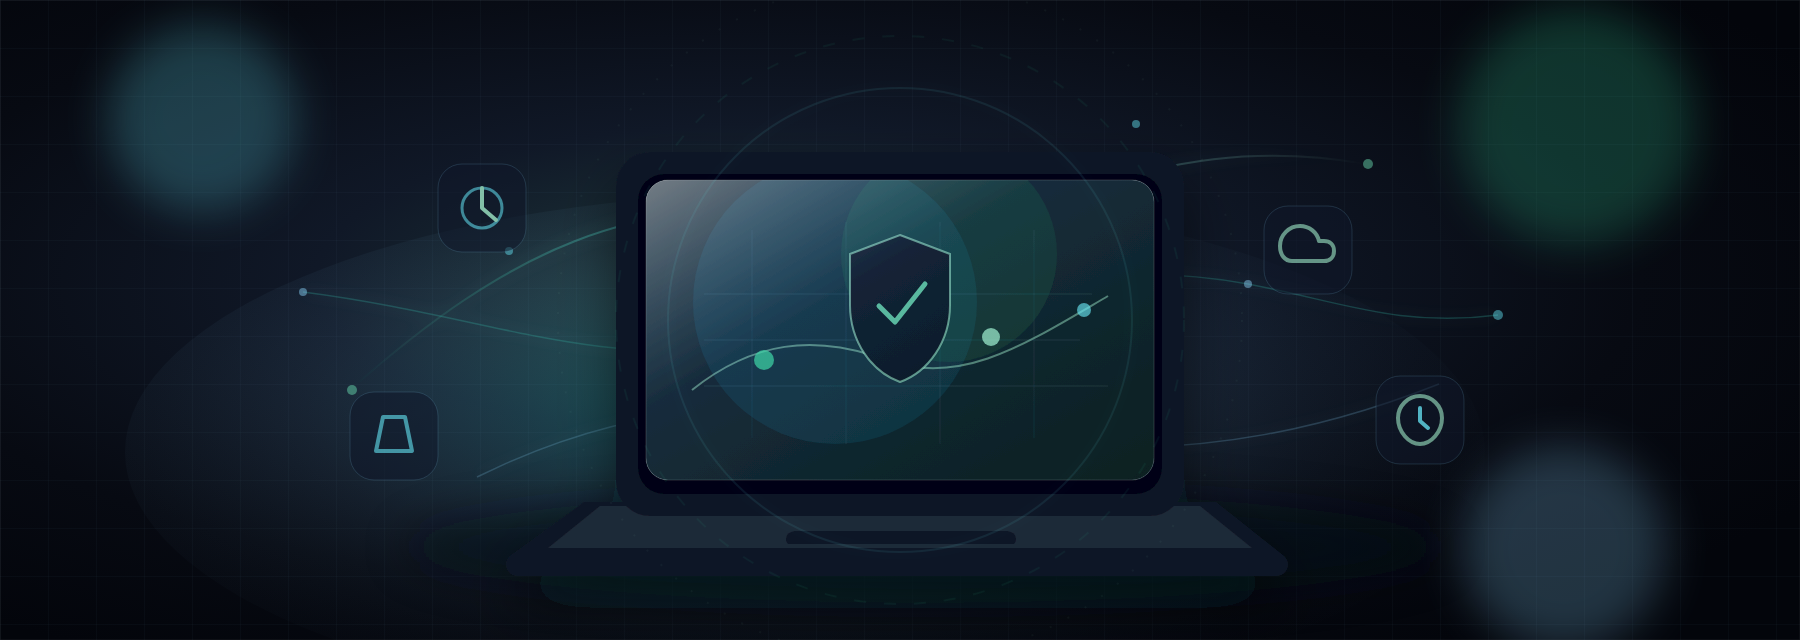
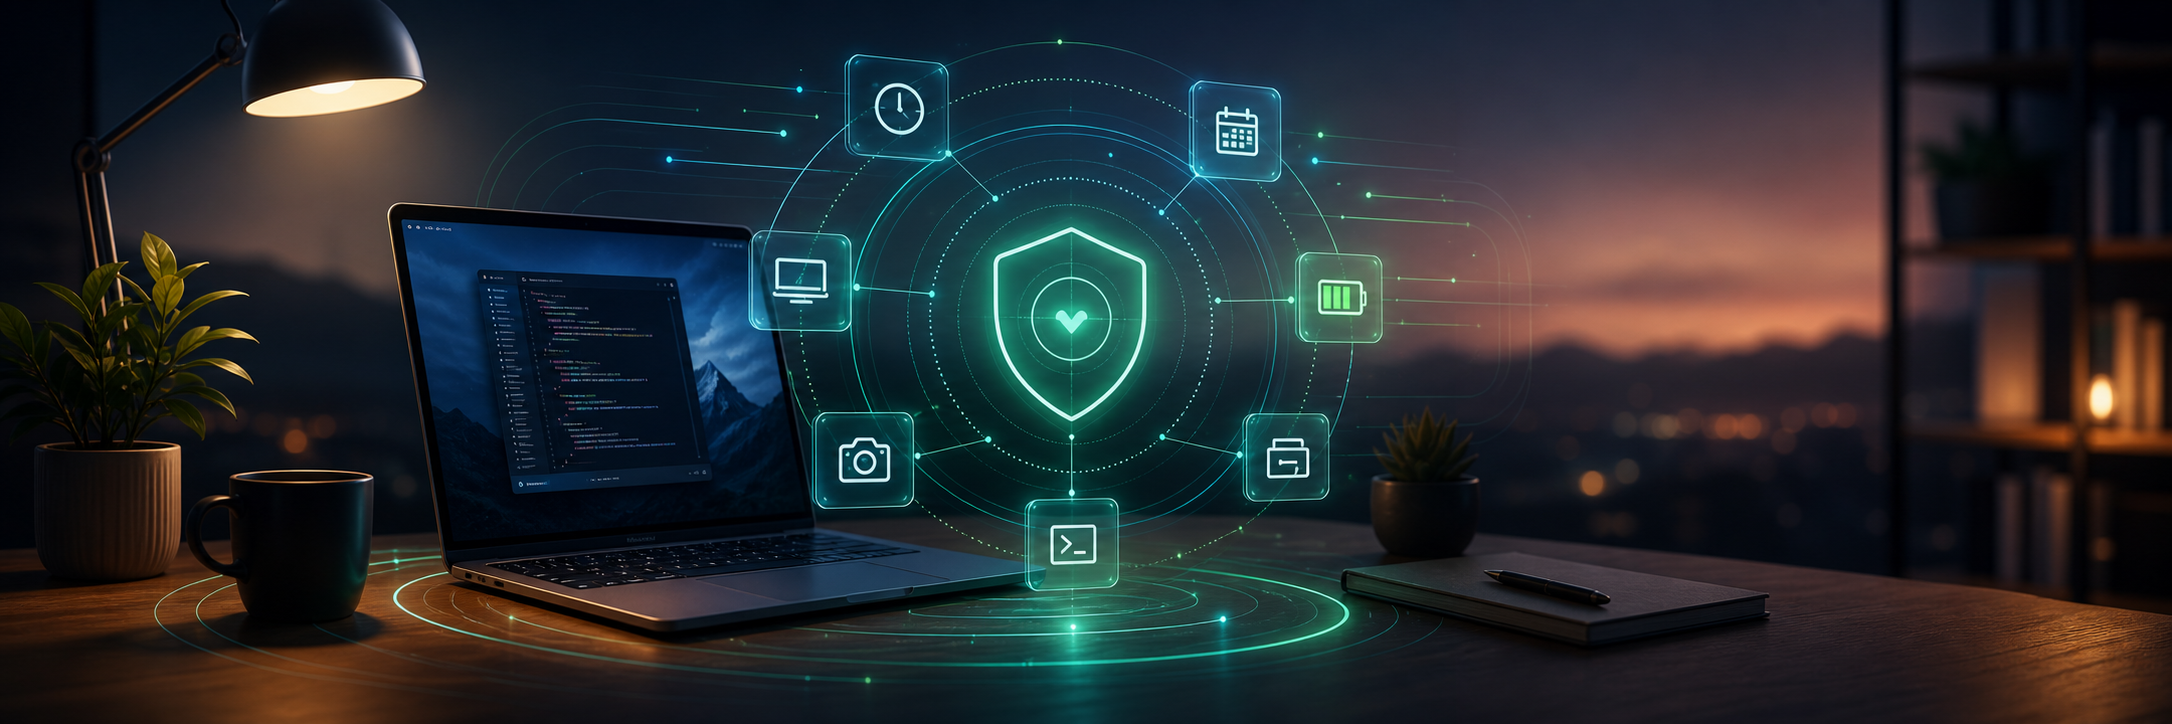
Use generated README header image

diff --git a/CHANGELOG.md b/CHANGELOG.md
@@ -10,7 +10,7 @@ add or refine capabilities, and patch versions are reserved for compatible fixes
 ### Changed
 
 - Refreshed the GitHub README with a stronger project narrative, clearer
-  onboarding flow, and new header artwork.
+  onboarding flow, and a generated cinematic header image.
 - Hardened relevance routing to require current/deictic screen references before
   recommending screenshots.
 - Tightened time-pressure and focus-state matching to avoid broad keywords such